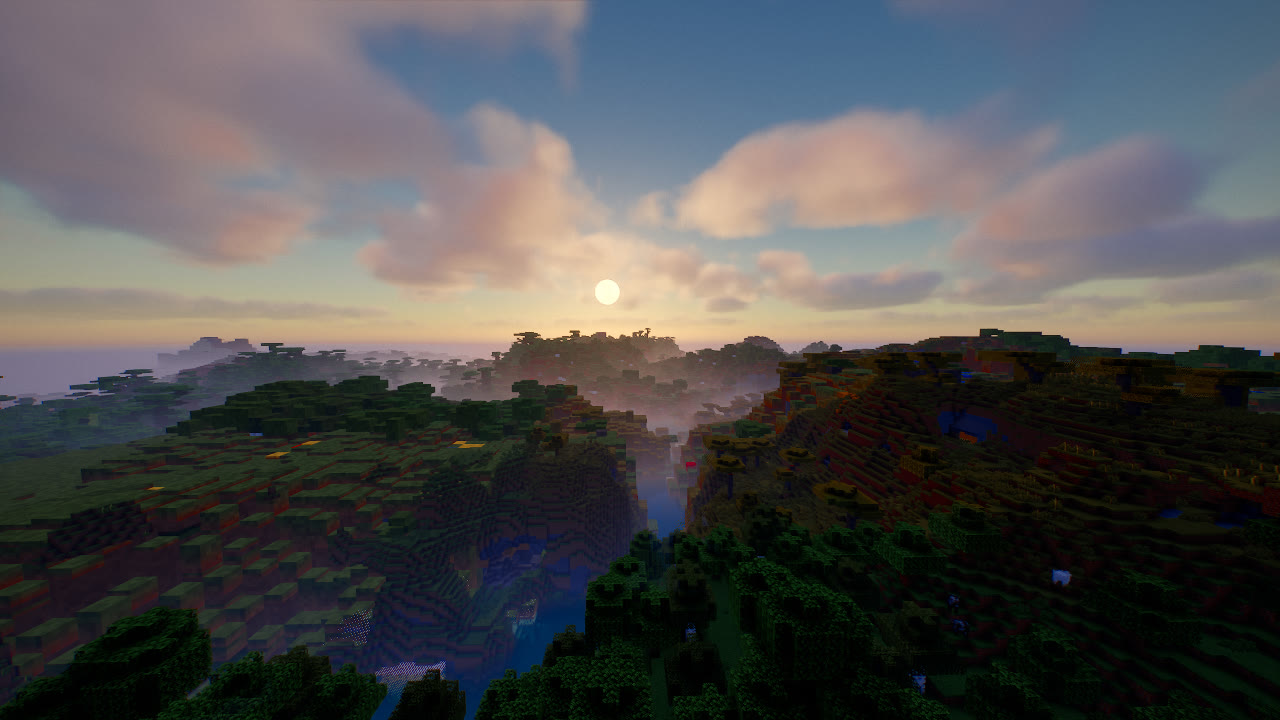
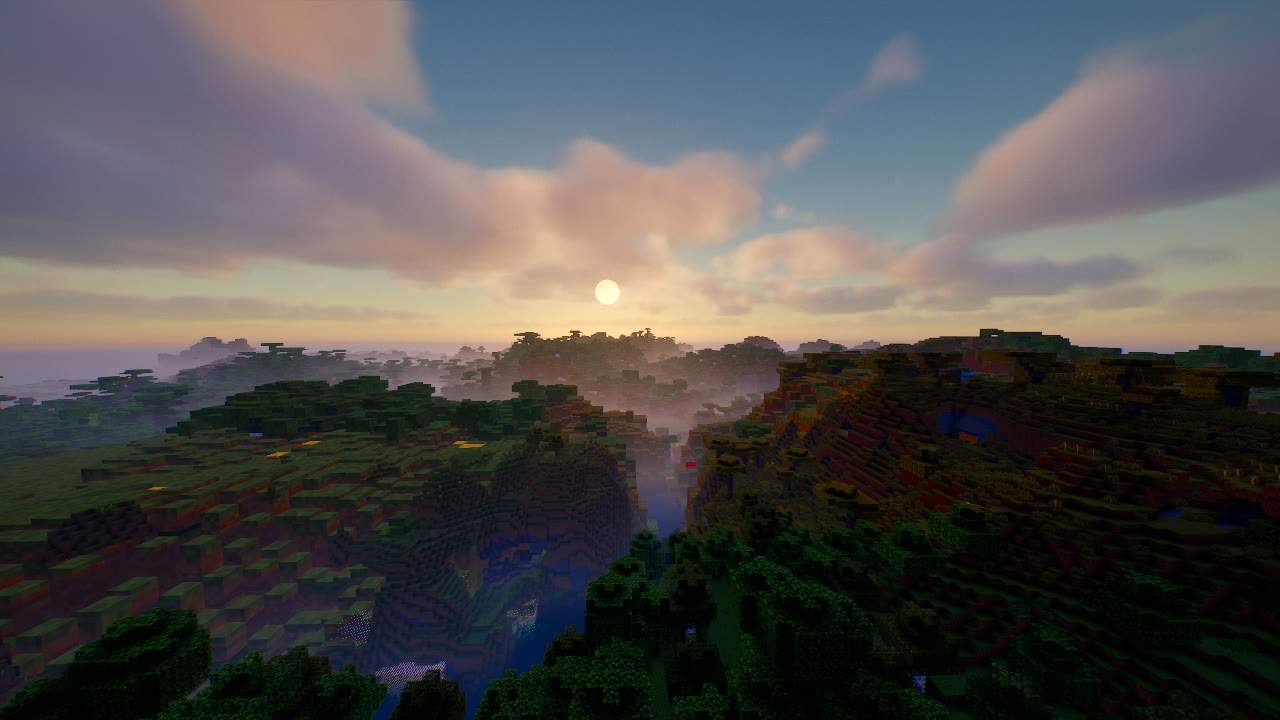
v0.10: warmer Cinema days, natural water waves, sharper Story, cirrus Story-only
- ChopzCinema: warm daylight white balance and a longer golden-hour window; nights stay cool
- water (both): irregular waves from rotated smooth-noise octaves instead of a sine lattice (no more checkerboard look)
- Story: painterly filter halved and faded out with distance, depth of field reduced
- cirrus streak clouds only in Story by default and drifting much slower
- screenshots, banner and README updated

diff --git a/tools/build_packs.py b/tools/build_packs.py
@@ -11,9 +11,10 @@ DIST = os.path.join(REPO, "dist")
 # default overrides for the Story pack (define name -> new default)
 STORY_DEFAULTS = {
     "COLOR_GRADE": "5",
-    "PAINTERLY": "1.0",
+    "PAINTERLY": "0.5",
     "FALLING_LEAVES": True,
     "GOLDEN_ATMOSPHERE": True,
+    "CIRRUS_CLOUDS": True,
     "WAVING_STRENGTH": "1.75",
     "FOG_DENSITY": "1.25",
     "MORNING_MIST": "1.0",
@@ -22,7 +23,7 @@ STORY_DEFAULTS = {
     "AMBIENT_BRIGHTNESS": "1.0",
     "VIGNETTE": "0.35",
     "FILM_GRAIN": "0.1",
-    "DOF_STRENGTH": "0.75",
+    "DOF_STRENGTH": "0.25",
     "SUN_SIZE": "1.5",
     "MOON_SIZE": "1.25",
     "NIGHT_BRIGHTNESS": "1.5",

diff --git a/README.md b/README.md
@@ -35,7 +35,7 @@ Grounded, high contrast, modern blockbuster.
 
 - Classic print film curve with **inky blacks**
 - Saturated reds & blues, restrained greens
-- Glowing golden hour, moonlit nights
+- Warm, golden daylight and golden hour, cool moonlit nights
 - Depth of field, anamorphic flare, film grain
 
 **`ChopzCinema-vX.Y.zip`**
@@ -53,7 +53,7 @@ Painterly, poetic, all about wind and colour.
 - Lush, saturated nature & **painterly brush filter**
 - Coral-pink dusks under violet skies
 - **Leaves & petals carried by wind gusts**
-- Glowing coloured haze, teal-green storms
+- Glowing coloured haze, cirrus streaks, teal-green storms
 
 **`ChopzCinema-Story-vX.Y.zip`**
 
@@ -72,7 +72,7 @@ Painterly, poetic, all about wind and colour.
 <td width="33%" valign="top">
 
 ### 🌅 Living sky
-Physically based atmosphere, volumetric clouds, cirrus streaks, real sunsets and a **round sun and moon** with phases.
+Physically based atmosphere, volumetric clouds, real sunsets and a **round sun and moon** with phases.
 
 </td>
 <td width="33%" valign="top">
@@ -188,6 +188,7 @@ Waving plants and leaves with visible **gust fronts** rolling across the land.
 - **Wind-blown leaves & petals**: sparse when calm, bursts in gusts, lots in storms. Mostly green, red petals at dusk. Anchored in the world.
 - **Wind gusts**: visible fronts bend grass and trees as they roll across the land
 - **Coloured haze**: white-gold by day, glowing pink at dusk, violet at night
+- **Cirrus streaks**: thin, slowly drifting high clouds that glow pink around the setting sun
 - **Tsushima grade**: coral/pink dusks, violet skies, teal-green storms, soft saturation ceiling
 
 </details>
@@ -207,7 +208,7 @@ Waving plants and leaves with visible **gust fronts** rolling across the land.
 <summary><b>🌅 Sky, Night & Weather</b></summary>
 
 - Physically based sky (Rayleigh, Mie, ozone), **golden hour** glow
-- **Volumetric clouds** and **cirrus streaks**
+- **Volumetric clouds** (plus **cirrus streaks** in Story)
 - Height fog, distant haze, morning/evening mist, **god rays**
 - Three-layer starry sky, **Milky Way**, shooting stars, rotating with the sky
 - **Round sun** and **round moon** with craters and real moon phases
@@ -219,7 +220,7 @@ Waving plants and leaves with visible **gust fronts** rolling across the land.
 <details>
 <summary><b>🌊 Water, Heat & Nether</b></summary>
 
-- Procedural waves, refraction, absorption, screen-space reflections, sun glitter
+- Natural, irregular waves (rotated noise octaves and gentle swells), refraction, absorption, screen-space reflections, sun glitter
 - **Caustics** and **underwater light shafts**
 - Heat shimmer over lava, fire, magma, campfires and furnaces
 - **Volumetric Nether smoke** lit by the lava ocean, waving lava
@@ -265,7 +266,7 @@ The menu is available in **English** and **German**.
 |---|---|
 | Camera & Film | Exposure, film curve, grade, bloom, lens flare, depth of field, vignette, grain, letterbox, TAA |
 | Story Look | Grade, painterly filter, leaves, leaves density, wind gusts, wind strength, coloured haze, Kurosawa mode |
-| Sky, Clouds & Fog | Volumetric clouds, cirrus, god rays, fog, morning mist, cave fog |
+| Sky, Clouds & Fog | Volumetric clouds, cirrus (Story), god rays, fog, morning mist, cave fog |
 | Night Sky | Round sun & moon, stars, Milky Way, shooting stars, northern lights |
 | Lighting | Sun, sky light, night, torch light & colour temperature |
 | Shadows | Resolution, distance, softness, coloured shadows, sun angle |
@@ -282,7 +283,7 @@ The menu is available in **English** and **German**.
 Both editions come from the same `shaders/` folder. The Story edition only changes default values (see `STORY_DEFAULTS` in `tools/build_packs.py`).
 
 ```bash
-python3 tools/build_packs.py v0.9   # -> dist/ChopzCinema-v0.9.zip + dist/ChopzCinema-Story-v0.9.zip
+python3 tools/build_packs.py v0.10  # -> dist/ChopzCinema-v0.10.zip + dist/ChopzCinema-Story-v0.10.zip
 python3 tools/gen_wrappers.py       # regenerate world0 / world-1 / world1 program wrappers
 ```
 
